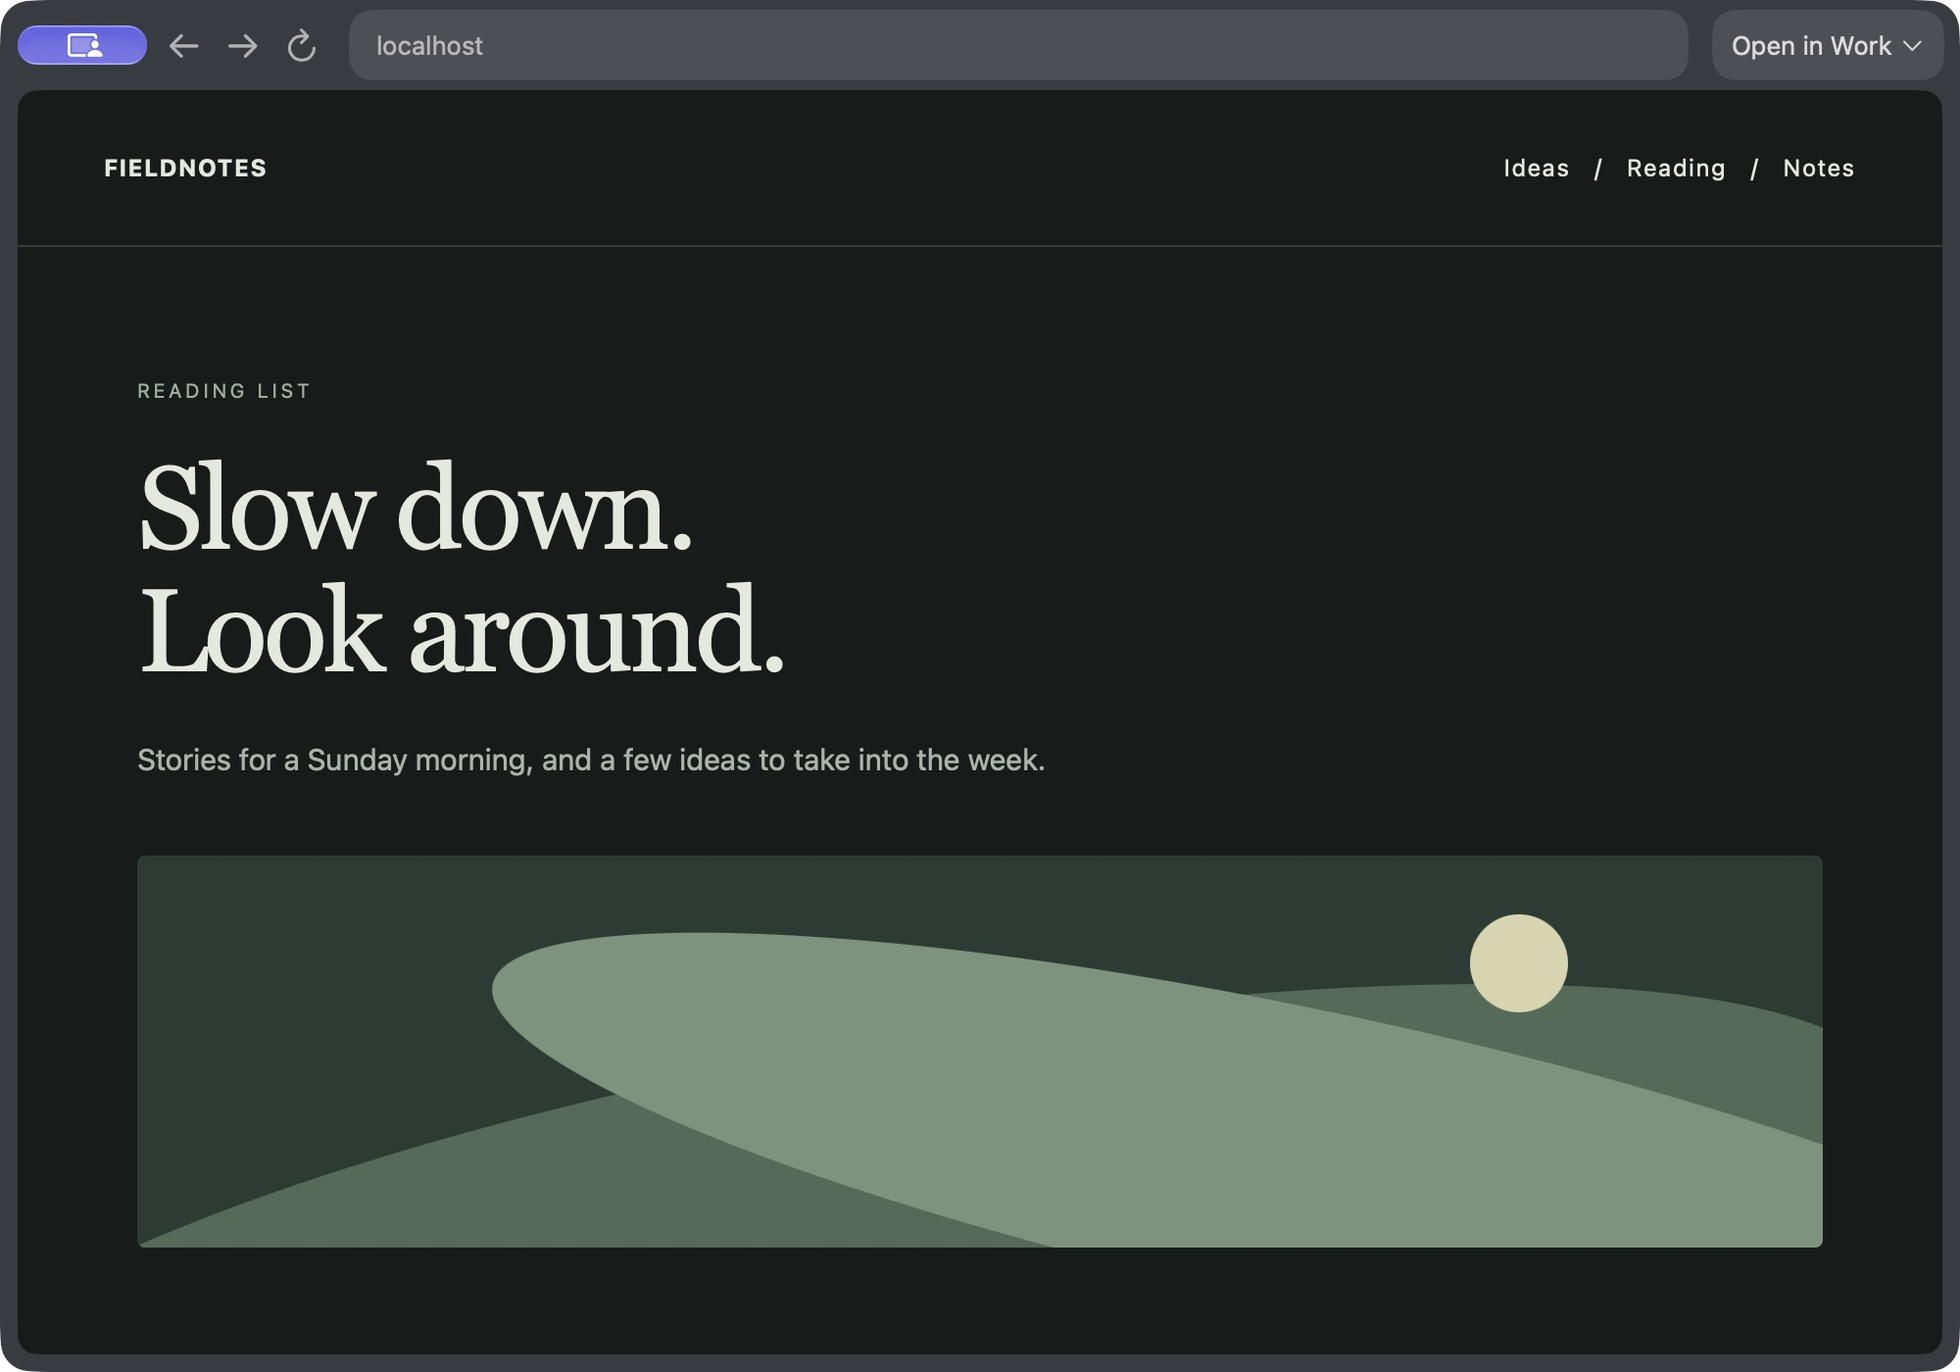
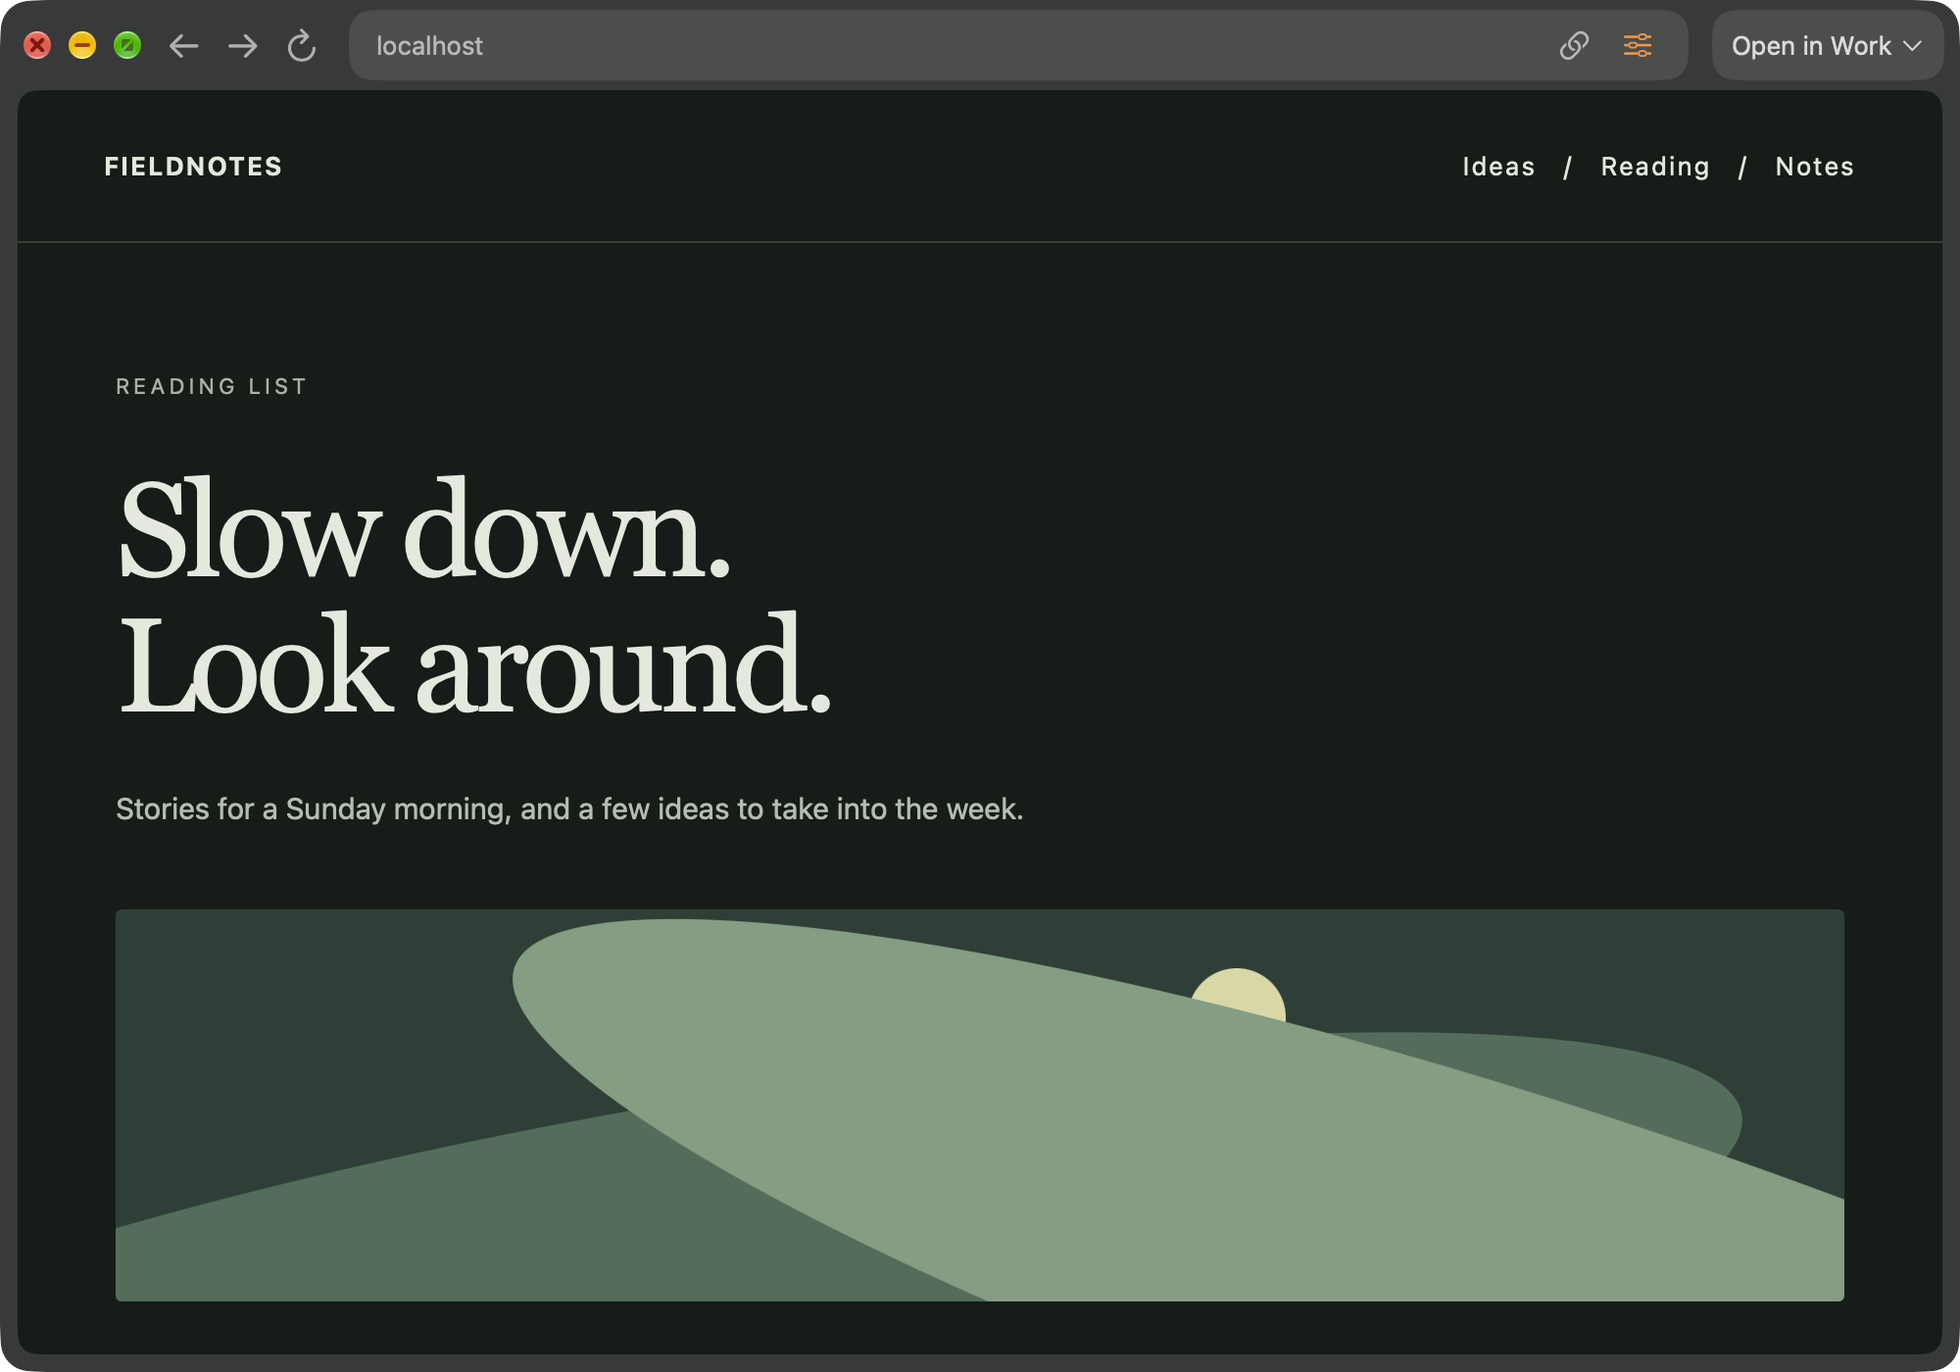
fix: encode screenshots as PNG and remove white corners (#359)
* fix: encode screenshots as PNG and remove white corner matte

* fix: retain complete native window controls in screenshots

* docs: clarify native traffic light appearance

diff --git a/docs/features.html b/docs/features.html
@@ -1,4 +1,4 @@
-<!doctype html><html lang="en"><head><meta charset="utf-8"><meta name="viewport" content="width=device-width, initial-scale=1"><title>Features · Vane</title><meta name="description" content="Explore Vane’s Spaces, Split View, command bar, and native macOS browsing features."><link rel="icon" href="icon.png"><link rel="stylesheet" href="styles.css?v=26"><meta name="theme-color" content="#06090d"><script src="space.js?v=6" defer></script></head><body class="inner-page"><a class="skip-link" href="#main-content">Skip to content</a><header class="site-nav">
+<!doctype html><html lang="en"><head><meta charset="utf-8"><meta name="viewport" content="width=device-width, initial-scale=1"><title>Features · Vane</title><meta name="description" content="Explore Vane’s Spaces, Split View, command bar, and native macOS browsing features."><link rel="icon" href="icon.png"><link rel="stylesheet" href="styles.css?v=27"><meta name="theme-color" content="#06090d"><script src="space.js?v=6" defer></script></head><body class="inner-page"><a class="skip-link" href="#main-content">Skip to content</a><header class="site-nav">
   <a class="brand" href="./" aria-label="Vane home"><img src="icon-dark.png" alt="" width="32" height="32"><span class="brand-label">Vane</span></a>
   <nav class="links" aria-label="Main navigation">
     <a href="features.html" aria-current="page">Features</a>
@@ -8,13 +8,13 @@
 </header><main id="main-content"><p class="eyebrow playful-tag">For the delightfully tab-happy.</p><h1 class="hero-title">Lots of tabs.<br><em>Zero juggling.</em></h1><p class="intro">For your work brain, your weekend brain, and your seventeen-tabs-about-one-thing brain.</p>
 <span id="split" aria-hidden="true"></span><div class="tour-controls" id="spaces" role="tablist" aria-label="App screenshots"><button id="tab-spaces" role="tab" aria-selected="true" aria-controls="tour-panel" data-feature="spaces">Spaces</button><button id="tab-split" role="tab" aria-selected="false" aria-controls="tour-panel" tabindex="-1" data-feature="split">Split View</button><button id="tab-little" role="tab" aria-selected="false" aria-controls="tour-panel" tabindex="-1" data-feature="little">Little Vane</button></div>
 <section class="screenshot-tour" id="tour-panel" role="tabpanel" aria-labelledby="tab-spaces" tabindex="0">
-<div class="tour-capture is-active" data-capture="spaces"><div class="app-capture"><img src="media/vane-spaces-dark.png" alt="Vane in dark mode with a Work Space, pinned Fieldnotes tab, and project tabs." width="2560" height="1680" loading="eager" decoding="async"></div></div>
-<div class="tour-capture" data-capture="split" aria-hidden="true"><div class="app-capture"><img src="media/vane-split-dark.png" alt="Vane in dark mode showing Fieldnotes and Project notes side by side in Split View." width="2560" height="1680" loading="eager" decoding="async"></div></div>
-<div class="tour-capture" data-capture="little" aria-hidden="true"><div class="capture-composition"><div class="app-capture"><img src="media/vane-spaces-dark.png" alt="Vane in dark mode with a Work Space, pinned Fieldnotes tab, and project tabs." width="2560" height="1680" loading="eager" decoding="async"></div><div class="capture-floating"><div class="app-capture app-capture-little"><img src="media/vane-little-dark.png" alt="A real Little Vane window in dark mode showing the Reading list page." width="2000" height="1400" loading="eager" decoding="async"></div></div></div></div>
+<div class="tour-capture is-active" data-capture="spaces"><div class="app-capture"><img src="media/vane-spaces-dark.png?v=2" alt="Vane in dark mode with a Work Space, pinned Fieldnotes tab, and project tabs." width="2560" height="1680" loading="eager" decoding="async"></div></div>
+<div class="tour-capture" data-capture="split" aria-hidden="true"><div class="app-capture"><img src="media/vane-split-dark.png?v=2" alt="Vane in dark mode showing Fieldnotes and Project notes side by side in Split View." width="2560" height="1680" loading="eager" decoding="async"></div></div>
+<div class="tour-capture" data-capture="little" aria-hidden="true"><div class="capture-composition"><div class="app-capture"><img src="media/vane-spaces-dark.png?v=2" alt="Vane in dark mode with a Work Space, pinned Fieldnotes tab, and project tabs." width="2560" height="1680" loading="eager" decoding="async"></div><div class="capture-floating"><div class="app-capture app-capture-little"><img src="media/vane-little-dark.png?v=2" alt="A real Little Vane window in dark mode showing the Reading list page." width="2000" height="1400" loading="eager" decoding="async"></div></div></div></div>
 </section>
 <p class="tour-explanation" id="tour-explanation" aria-live="polite">A Work Space keeps pinned pages and project tabs together, with Personal and Explore a click away.</p><p class="preview-caption">Captured in Vane · Dark mode · Example browsing content</p>
-<section class="feature-scene paper-scene" id="sidebar"><div class="scene-copy"><span class="scene-number">01 / A place for the pile</span><h2>Tabs with<br>a <em>home.</em></h2><p>Pin the keepers. Fold the folders. Let Today’s tabs be today’s tabs. Your sidebar has room for all of them.</p><a class="scene-link" href="docs.html#sidebar">Get to know the sidebar</a></div><div class="scene-capture"><div class="app-capture"><img src="media/vane-spaces-dark.png" alt="Vane in dark mode with a Work Space, pinned Fieldnotes tab, and project tabs." width="2560" height="1680" loading="eager" decoding="async"></div></div></section>
-<section class="feature-scene navy-scene" id="little"><div class="scene-capture"><div class="capture-composition"><div class="app-capture"><img src="media/vane-spaces-dark.png" alt="Vane in dark mode with a Work Space, pinned Fieldnotes tab, and project tabs." width="2560" height="1680" loading="eager" decoding="async"></div><div class="capture-floating"><div class="app-capture app-capture-little"><img src="media/vane-little-dark.png" alt="A real Little Vane window in dark mode showing the Reading list page." width="2000" height="1400" loading="eager" decoding="async"></div></div></div></div><div class="scene-copy"><span class="scene-number">02 / A tiny detour</span><h2>A little window.<br>A big <em>convenience.</em></h2><p>Open a link in Little Vane, take a quick look, then move it to your main window when it deserves a longer stay.</p><a class="scene-link" href="docs.html#little">Meet Little Vane</a></div></section>
+<section class="feature-scene paper-scene" id="sidebar"><div class="scene-copy"><span class="scene-number">01 / A place for the pile</span><h2>Tabs with<br>a <em>home.</em></h2><p>Pin the keepers. Fold the folders. Let Today’s tabs be today’s tabs. Your sidebar has room for all of them.</p><a class="scene-link" href="docs.html#sidebar">Get to know the sidebar</a></div><div class="scene-capture"><div class="app-capture"><img src="media/vane-spaces-dark.png?v=2" alt="Vane in dark mode with a Work Space, pinned Fieldnotes tab, and project tabs." width="2560" height="1680" loading="eager" decoding="async"></div></div></section>
+<section class="feature-scene navy-scene" id="little"><div class="scene-capture"><div class="capture-composition"><div class="app-capture"><img src="media/vane-spaces-dark.png?v=2" alt="Vane in dark mode with a Work Space, pinned Fieldnotes tab, and project tabs." width="2560" height="1680" loading="eager" decoding="async"></div><div class="capture-floating"><div class="app-capture app-capture-little"><img src="media/vane-little-dark.png?v=2" alt="A real Little Vane window in dark mode showing the Reading list page." width="2000" height="1400" loading="eager" decoding="async"></div></div></div></div><div class="scene-copy"><span class="scene-number">02 / A tiny detour</span><h2>A little window.<br>A big <em>convenience.</em></h2><p>Open a link in Little Vane, take a quick look, then move it to your main window when it deserves a longer stay.</p><a class="scene-link" href="docs.html#little">Meet Little Vane</a></div></section>
 <section class="feature-scene paper-scene live-summary" id="live"><div class="scene-copy"><span class="scene-number">03 / Let the folder do it</span><h2>Some tabs<br><em>find you.</em></h2><p>Live Folders bring your GitHub pull requests into the sidebar. They refresh as work opens, changes, and closes.</p><a class="scene-link" href="docs.html#live">How Live Folders work</a></div></section>
 <section class="more-features"><div class="section-intro"><span class="eyebrow">AND THE LITTLE THINGS, TOO</span><h2 class="section-heading">There’s more<br>where that came from.</h2></div><div class="feature-mosaic">
 <article class="mosaic-card wide"><div class="shortcut-stack" aria-hidden="true"><kbd>⌘ T</kbd><kbd>⌘ L</kbd><kbd>⇧ ⌘ P</kbd></div><h3>Good with your hands.</h3><p>A command palette, a tab switcher, familiar Mac shortcuts, and rebindable controls. Go from thought to tab.</p><a href="docs.html#shortcuts">Every keyboard shortcut</a></article>

diff --git a/docs/index.html b/docs/index.html
@@ -6,7 +6,7 @@
 <title>Vane · A native Mac browser</title>
 <meta name="description" content="Vane is a native macOS browser in the shape of Arc: sidebar tabs, Spaces, splits, Little Vane windows, and Live Folders.">
 <link rel="icon" href="icon.png">
-<link rel="stylesheet" href="styles.css?v=26">
+<link rel="stylesheet" href="styles.css?v=27">
 
 <meta name="theme-color" content="#06090d">
 <script src="space.js?v=13" defer></script>
@@ -59,9 +59,9 @@
       <div class="product-stage" aria-hidden="true">
         <div class="product-shell journey-window screenshot-shell" role="img" aria-label="Vane app screenshots in dark mode">
           <div class="product-pages">
-            <div class="product-page" data-product="1"><div class="capture-setting"><div class="app-capture"><img src="media/vane-spaces-dark.png" alt="Vane in dark mode with a Work Space, pinned Fieldnotes tab, and project tabs." width="2560" height="1680" loading="eager" decoding="async"></div></div></div>
-            <div class="product-page" data-product="2"><div class="capture-setting"><div class="app-capture"><img src="media/vane-split-dark.png" alt="Vane in dark mode showing Fieldnotes and Project notes side by side in Split View." width="2560" height="1680" loading="eager" decoding="async"></div></div></div>
-            <div class="product-page" data-product="3"><div class="capture-setting"><div class="capture-composition"><div class="app-capture"><img src="media/vane-spaces-dark.png" alt="Vane in dark mode with a Work Space, pinned Fieldnotes tab, and project tabs." width="2560" height="1680" loading="eager" decoding="async"></div><div class="capture-floating"><div class="app-capture app-capture-little"><img src="media/vane-little-dark.png" alt="A real Little Vane window in dark mode showing the Reading list page." width="2000" height="1400" loading="eager" decoding="async"></div></div></div></div></div>
+            <div class="product-page" data-product="1"><div class="capture-setting"><div class="app-capture"><img src="media/vane-spaces-dark.png?v=2" alt="Vane in dark mode with a Work Space, pinned Fieldnotes tab, and project tabs." width="2560" height="1680" loading="eager" decoding="async"></div></div></div>
+            <div class="product-page" data-product="2"><div class="capture-setting"><div class="app-capture"><img src="media/vane-split-dark.png?v=2" alt="Vane in dark mode showing Fieldnotes and Project notes side by side in Split View." width="2560" height="1680" loading="eager" decoding="async"></div></div></div>
+            <div class="product-page" data-product="3"><div class="capture-setting"><div class="capture-composition"><div class="app-capture"><img src="media/vane-spaces-dark.png?v=2" alt="Vane in dark mode with a Work Space, pinned Fieldnotes tab, and project tabs." width="2560" height="1680" loading="eager" decoding="async"></div><div class="capture-floating"><div class="app-capture app-capture-little"><img src="media/vane-little-dark.png?v=2" alt="A real Little Vane window in dark mode showing the Reading list page." width="2000" height="1400" loading="eager" decoding="async"></div></div></div></div></div>
           </div>
         </div>
       </div>

diff --git a/docs/media/display.html b/docs/media/display.html
@@ -4,29 +4,29 @@
 <meta charset="utf-8">
 <meta name="viewport" content="width=device-width,initial-scale=1">
 <title>Vane · App display</title>
-<link rel="stylesheet" href="../styles.css?v=26">
+<link rel="stylesheet" href="../styles.css?v=27">
 <style>body{margin:0;padding:0;background:#20262a}body::before,body::after{display:none}main{margin:0;padding:0;max-width:none}.display-board{height:100svh;display:flex;align-items:center;justify-content:center;--display-padding:clamp(16px,6vw,64px);padding:var(--display-padding) 9vw;background:#20262a}.display-board>div{width:min(100%,900px,calc((100svh - var(--display-padding) - var(--display-padding) - 24px)*1.5))}.display-board[hidden]{display:none}</style>
 </head>
 <body>
 <main>
 <section class="display-board" data-display="spaces">
 <div class="app-capture">
-<img src="vane-spaces-dark.png" alt="Vane Work Space in dark mode" width="2560" height="1680">
+<img src="vane-spaces-dark.png?v=2" alt="Vane Work Space in dark mode" width="2560" height="1680">
 </div>
 </section>
 <section class="display-board" data-display="split" hidden>
 <div class="app-capture">
-<img src="vane-split-dark.png" alt="Vane Split View in dark mode" width="2560" height="1680">
+<img src="vane-split-dark.png?v=2" alt="Vane Split View in dark mode" width="2560" height="1680">
 </div>
 </section>
 <section class="display-board" data-display="little" hidden>
 <div class="capture-composition">
 <div class="app-capture">
-<img src="vane-spaces-dark.png" alt="Vane Work Space in dark mode" width="2560" height="1680">
+<img src="vane-spaces-dark.png?v=2" alt="Vane Work Space in dark mode" width="2560" height="1680">
 </div>
 <div class="capture-floating">
 <div class="app-capture app-capture-little">
-<img src="vane-little-dark.png" alt="Little Vane in dark mode" width="2000" height="1400">
+<img src="vane-little-dark.png?v=2" alt="Little Vane in dark mode" width="2000" height="1400">
 </div>
 </div>
 </div>

diff --git a/docs/styles.css b/docs/styles.css
@@ -910,11 +910,9 @@ body.inner-page {
 .inner-page .space-background { opacity:.8; }
 body.inner-page::after { opacity:.004; }
 
-/* Real app captures: a quiet setting, with the macOS capture strip cropped out.
-   The app's sidebar, page content, proportions, and pixels remain unchanged. */
-.app-capture { overflow:hidden; border-radius:10px; background:#161b19; box-shadow:0 18px 45px rgba(0,0,0,.3); }
-.app-capture img { display:block; width:100%; height:auto; max-width:none; margin-top:-3.28125%; }
-.app-capture-little img { margin-top:-4.2%; }
+/* Full native window captures, including traffic lights and toolbar controls. */
+.app-capture { overflow:hidden; border-radius:10px; background:transparent; box-shadow:0 18px 45px rgba(0,0,0,.3); }
+.app-capture img { display:block; width:100%; height:auto; max-width:none; }
 .capture-setting { padding:24px; height:100%; display:flex; align-items:center; background:#20262a; }
 .capture-setting > .app-capture, .capture-setting > .capture-composition { width:100%; }
 .capture-composition { position:relative; padding:0 24px 24px 0; }

diff --git a/docs/media/README.md b/docs/media/README.md
@@ -1,19 +1,29 @@
 # Vane app imagery
 
-The `vane-*-dark.png` files are unretouched window captures of the running native
-Vane app on macOS 26, taken on 6 October 2026. They use an isolated demo data folder,
-dark Spaces, and original Fieldnotes example pages. They contain no personal browsing
-data. The example pages are sample website content; the browser UI is Vane itself.
+The `vane-*-dark.png` files are full native window captures of Vane on macOS 27,
+taken on 9 October 2026 from source revision `37abf63`. They use an isolated demo
+data folder, a dark Work Space, and local Fieldnotes example pages. They contain
+no personal browsing data. The example pages are sample website content; the
+browser UI is Vane itself. Developer Mode is disabled for the local demo host.
 
-Website layouts crop the top 84 pixels to omit the macOS capture indicator and cursor.
-The rest of each app capture is displayed without redrawing, recoloring, or changing
-its proportions. Little Vane is a separate native window, composited above the
-Work Space capture with CSS.
+All screenshots are encoded as actual PNG files. The three native captures retain
+the transparent rounded corners provided by macOS. They include the traffic lights
+and toolbar controls, with no top crop, capture indicator, cursor, or white corner
+matte. Traffic lights retain their native active or inactive appearance. App pixels
+are not redrawn or retouched. Historical audit screenshots were re-encoded from their
+previous JPEG data as PNG, with their decoded pixels and dimensions unchanged;
+this cannot recover detail already lost to JPEG compression.
+
+Capture a demo window directly with `screencapture -x -o -l <window-id> -t png <output>`.
+`-o` excludes the window shadow; PNG preserves its transparent outer corners.
+Keep the complete window when updating these assets. Website layouts scale each
+capture proportionally and retain the full top controls. Little Vane is a separate
+native window, composited above the Work Space capture with CSS.
 
 `display.html` provides a reusable, plain charcoal setting. Open it with `?view=spaces`,
 `?view=split`, or `?view=little`; the default is Spaces. The `vane-display-*.png`
 exports are rendered from these layouts and can be used in websites, slides, and
-other product displays. Keep the source captures for future crops and layouts.
+other product displays. Keep the source captures for future layouts.
 
 The website uses brief transitions and disables them with Reduce Motion. No generated
 or reconstructed app interface is used in these assets.
